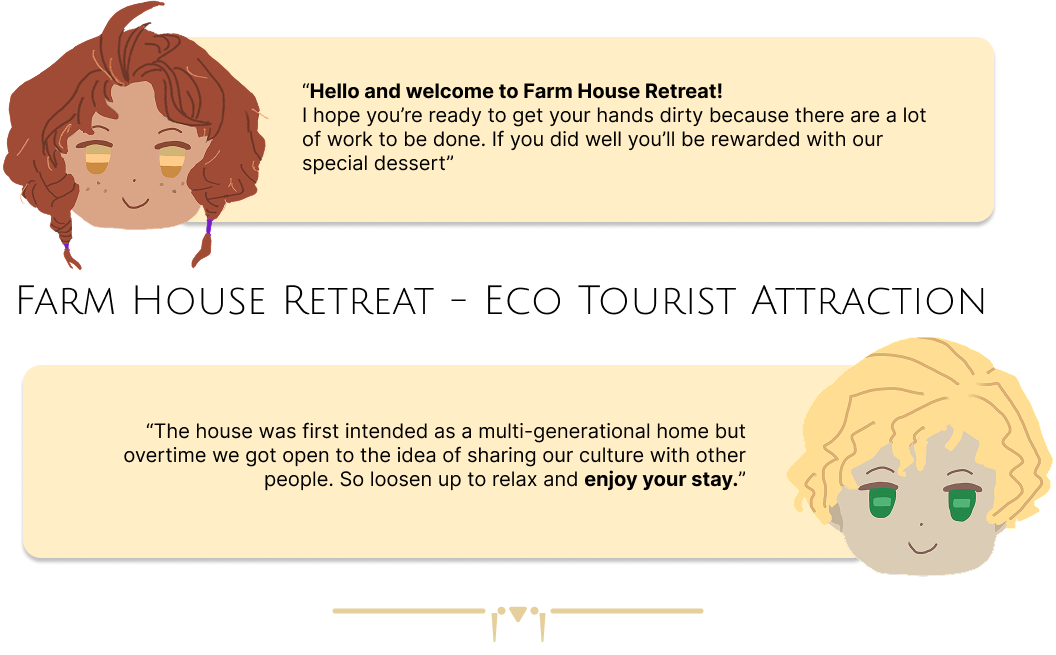
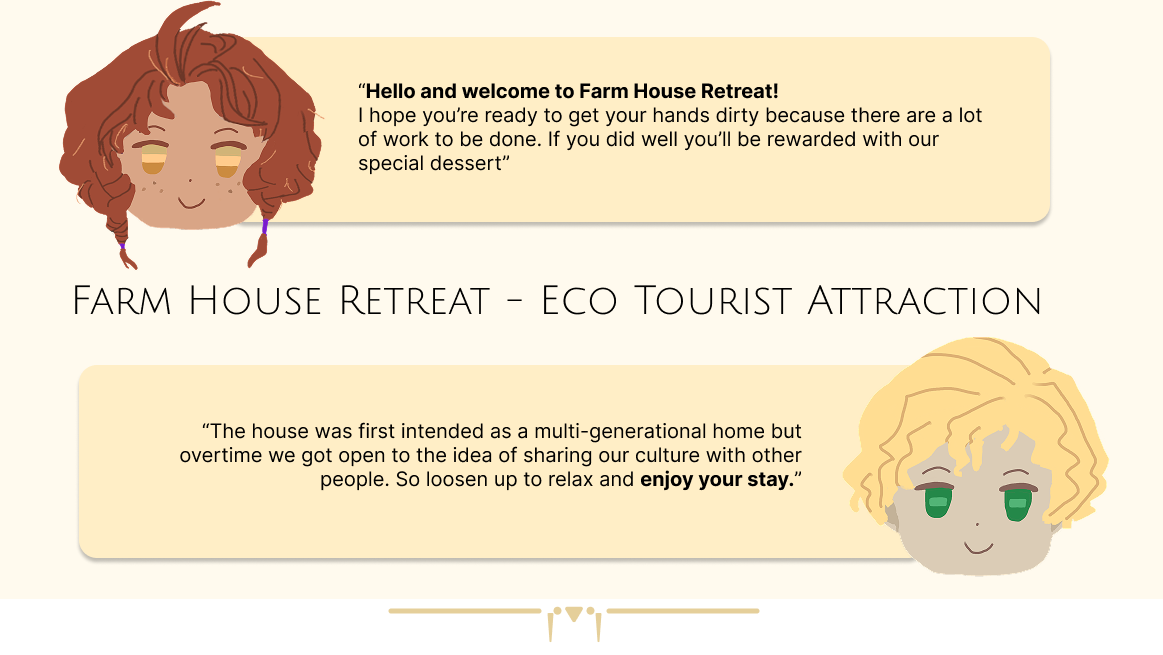
Image update

diff --git a/FarmHouseRetreat/style.css b/FarmHouseRetreat/style.css
@@ -3,7 +3,7 @@ body {
     grid-template-columns: 1fr;
     width: 100vw;
     height: 100vh;
-    background-color: #fffbee;
+    background-color: #fffdf7;
     margin: 0;
 }
 
